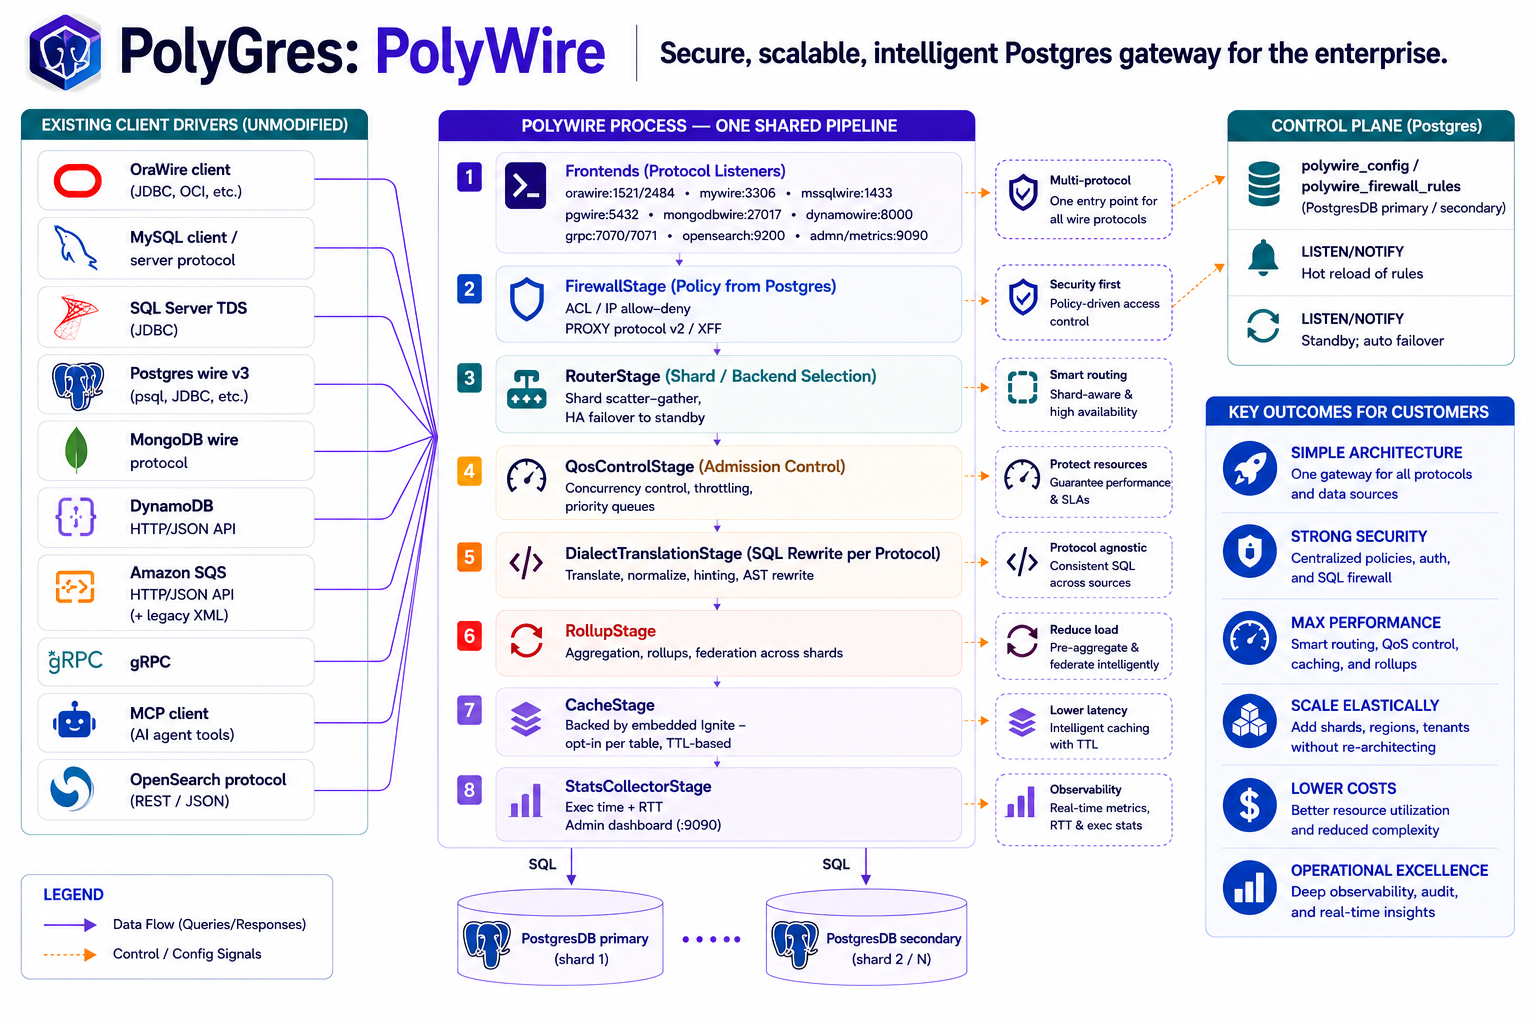
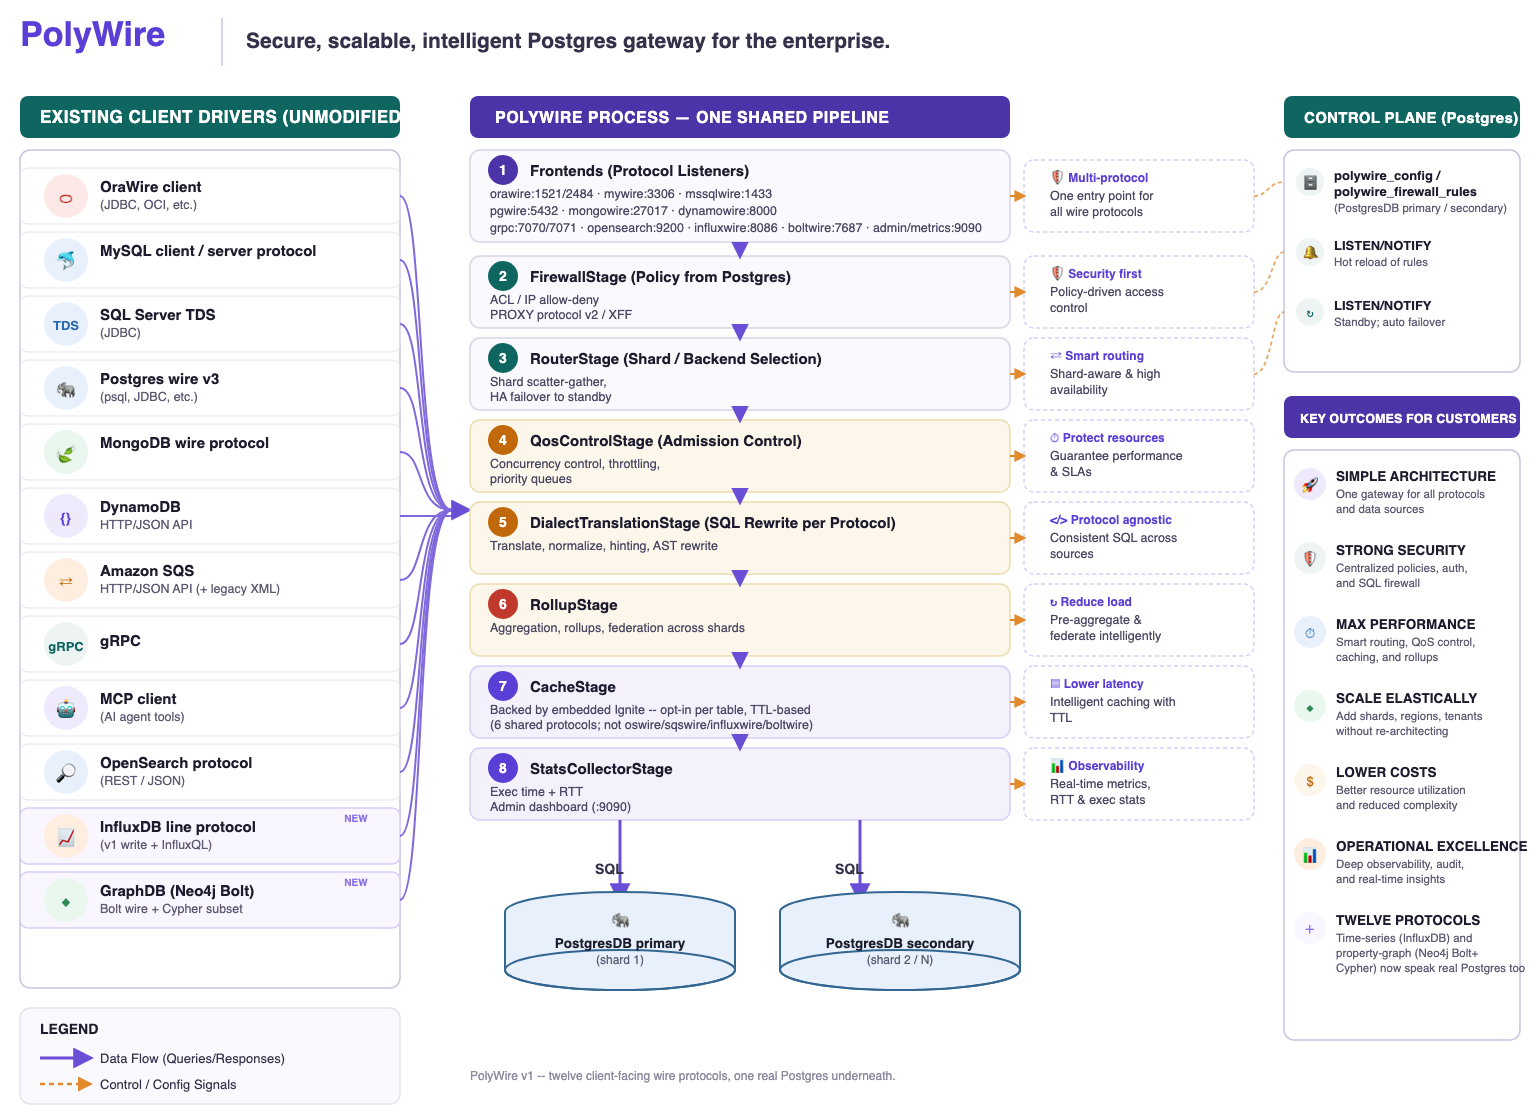
docker: regenerate the social-preview image, rename it to bust WhatsApp/OG caches
Synced from polygres26/Docker@c78f6a7.

Changed region(s): [[0.0, 0.0, 1.0, 0.9688], [0.0312, 0.8438, 0.2188, 1.0]]

diff --git a/index.html b/index.html
@@ -16,11 +16,11 @@
 <meta property="og:url" content="https://nexagres.com/">
 <meta property="og:title" content="PolyWire — The Intelligent Gateway for Postgres">
 <meta property="og:description" content="Connect, secure, control, and accelerate every application and AI agent accessing Postgres — regardless of the protocol they speak. One control point for every Postgres workload. Plus NexaGres DMS, a rules-based migration-difficulty assessor.">
-<meta property="og:image" content="https://nexagres.com/assets/architecture.png">
+<meta property="og:image" content="https://nexagres.com/assets/og-image.png">
 <meta name="twitter:card" content="summary_large_image">
 <meta name="twitter:title" content="PolyWire — The Intelligent Gateway for Postgres">
 <meta name="twitter:description" content="Connect, secure, control, and accelerate every application and AI agent accessing Postgres — regardless of the protocol they speak. One control point for every Postgres workload. Plus NexaGres DMS, a rules-based migration-difficulty assessor.">
-<meta name="twitter:image" content="https://nexagres.com/assets/architecture.png">
+<meta name="twitter:image" content="https://nexagres.com/assets/og-image.png">
 
 <!-- Structured data: helps search/AI systems parse what these tools are without re-deriving it
      from prose. Kept to claims already stated in the page body -- nothing here that isn't said,
@@ -36,7 +36,7 @@
       "operatingSystem": "Linux, macOS, Windows (Docker)",
       "description": "PolyWire is the intelligent gateway for Postgres -- one control point for every Postgres workload. Different protocols, same policies, same Postgres. It connects any client protocol -- Postgres, MySQL, Oracle, SQL Server, MongoDB, DynamoDB, Amazon SQS, OpenSearch, InfluxDB, GraphDB (Neo4j), gRPC, and MCP -- to a single real Postgres database, unmodified, with live semantic execution translation (protocol to SQL/API semantics to PostgreSQL execution), not just protocol framing. Organized around five capabilities: Connect (twelve client protocols, one backend), Protect (SQL firewall, connection ACL, authentication, row-level security), Control (QoS admission control, routing, sharding, planned/unplanned failover), Accelerate (PolyCache -- one distributed cache shared across PostgreSQL/MySQL/Oracle/SQL Server/gRPC/MCP -- and rollups), and Observe (native per-protocol error translation, Prometheus/OTEL export, audit log). Admin SSO (Okta/Entra ID) with read-vs-write roles is included.",
       "url": "https://nexagres.com/polywire/",
-      "image": "https://nexagres.com/assets/architecture.png",
+      "image": "https://nexagres.com/assets/og-image.png",
       "offers": [
         {
           "@type": "Offer",

diff --git a/polywire/index.html b/polywire/index.html
@@ -16,11 +16,11 @@
 <meta property="og:url" content="https://nexagres.com/polywire/">
 <meta property="og:title" content="PolyWire — Full Capabilities of the Intelligent Postgres Gateway">
 <meta property="og:description" content="Connect, Protect, Control, Accelerate, Observe: outcomes, use cases, PolyCache benchmarks, sharding, observability, security, and error translation — the full PolyWire technical detail.">
-<meta property="og:image" content="https://nexagres.com/assets/architecture.png">
+<meta property="og:image" content="https://nexagres.com/assets/og-image.png">
 <meta name="twitter:card" content="summary_large_image">
 <meta name="twitter:title" content="PolyWire — Full Capabilities of the Intelligent Postgres Gateway">
 <meta name="twitter:description" content="Connect, Protect, Control, Accelerate, Observe: outcomes, use cases, PolyCache benchmarks, sharding, observability, security, and error translation — the full PolyWire technical detail.">
-<meta name="twitter:image" content="https://nexagres.com/assets/architecture.png">
+<meta name="twitter:image" content="https://nexagres.com/assets/og-image.png">
 </head>
 <body>
   <a href="#main" class="skipLink">Skip to content</a>

diff --git a/db-compat/index.html b/db-compat/index.html
@@ -16,11 +16,11 @@
 <meta property="og:url" content="https://nexagres.com/db-compat/">
 <meta property="og:title" content="DB Compatibility Layer — Oracle, SQL Server, and MySQL Inside Postgres">
 <meta property="og:description" content="Postgres extensions that resolve real Oracle/SQL Server/MySQL catalog objects and built-in functions natively inside stock Postgres.">
-<meta property="og:image" content="https://nexagres.com/assets/architecture.png">
+<meta property="og:image" content="https://nexagres.com/assets/og-image.png">
 <meta name="twitter:card" content="summary_large_image">
 <meta name="twitter:title" content="DB Compatibility Layer — Oracle, SQL Server, and MySQL Inside Postgres">
 <meta name="twitter:description" content="Postgres extensions that resolve real Oracle/SQL Server/MySQL catalog objects and built-in functions natively inside stock Postgres.">
-<meta name="twitter:image" content="https://nexagres.com/assets/architecture.png">
+<meta name="twitter:image" content="https://nexagres.com/assets/og-image.png">
 </head>
 <body>
   <a href="#main" class="skipLink">Skip to content</a>

diff --git a/opensearch-to-postgres.html b/opensearch-to-postgres.html
@@ -16,11 +16,11 @@
 <meta property="og:url" content="https://nexagres.com/opensearch-to-postgres.html">
 <meta property="og:title" content="OpenSearch → PostgreSQL, No Client Change">
 <meta property="og:description" content="Your OpenSearch client thinks it's talking to OpenSearch. It's actually talking to Postgres. Real OpenSearch wire protocol, real PostgreSQL backend, no client change.">
-<meta property="og:image" content="https://nexagres.com/assets/architecture.png">
+<meta property="og:image" content="https://nexagres.com/assets/og-image.png">
 <meta name="twitter:card" content="summary_large_image">
 <meta name="twitter:title" content="OpenSearch → PostgreSQL, No Client Change">
 <meta name="twitter:description" content="Your OpenSearch client thinks it's talking to OpenSearch. It's actually talking to Postgres. Real OpenSearch wire protocol, real PostgreSQL backend, no client change.">
-<meta name="twitter:image" content="https://nexagres.com/assets/architecture.png">
+<meta name="twitter:image" content="https://nexagres.com/assets/og-image.png">
 
 <script type="application/ld+json">
 {

diff --git a/mcp-postgres/index.html b/mcp-postgres/index.html
@@ -16,11 +16,11 @@
 <meta property="og:url" content="https://nexagres.com/mcp-postgres/">
 <meta property="og:title" content="MCP for Postgres — Govern AI Agent Access">
 <meta property="og:description" content="AI agents get real Postgres access through the exact same SQL firewall, ACL, QoS, and audit path as every other client -- not a separate, unguarded route to your data.">
-<meta property="og:image" content="https://nexagres.com/assets/architecture.png">
+<meta property="og:image" content="https://nexagres.com/assets/og-image.png">
 <meta name="twitter:card" content="summary_large_image">
 <meta name="twitter:title" content="MCP for Postgres — Govern AI Agent Access">
 <meta name="twitter:description" content="AI agents get real Postgres access through the exact same SQL firewall, ACL, QoS, and audit path as every other client.">
-<meta name="twitter:image" content="https://nexagres.com/assets/architecture.png">
+<meta name="twitter:image" content="https://nexagres.com/assets/og-image.png">
 </head>
 <body>
   <a href="#main" class="skipLink">Skip to content</a>

diff --git a/mongodb-to-postgres.html b/mongodb-to-postgres.html
@@ -16,11 +16,11 @@
 <meta property="og:url" content="https://nexagres.com/mongodb-to-postgres.html">
 <meta property="og:title" content="MongoDB → PostgreSQL, No Driver Change">
 <meta property="og:description" content="Your MongoDB client thinks it's talking to MongoDB. It's actually talking to Postgres. Real MongoDB wire protocol, real PostgreSQL backend, no driver swap.">
-<meta property="og:image" content="https://nexagres.com/assets/architecture.png">
+<meta property="og:image" content="https://nexagres.com/assets/og-image.png">
 <meta name="twitter:card" content="summary_large_image">
 <meta name="twitter:title" content="MongoDB → PostgreSQL, No Driver Change">
 <meta name="twitter:description" content="Your MongoDB client thinks it's talking to MongoDB. It's actually talking to Postgres. Real MongoDB wire protocol, real PostgreSQL backend, no driver swap.">
-<meta name="twitter:image" content="https://nexagres.com/assets/architecture.png">
+<meta name="twitter:image" content="https://nexagres.com/assets/og-image.png">
 
 <script type="application/ld+json">
 {

diff --git a/oracle-to-postgres/index.html b/oracle-to-postgres/index.html
@@ -16,11 +16,11 @@
 <meta property="og:url" content="https://nexagres.com/oracle-to-postgres/">
 <meta property="og:title" content="Oracle → PostgreSQL, No Client Rewrite">
 <meta property="og:description" content="Your Oracle client thinks it's talking to Oracle. It's actually talking to Postgres. Real Oracle wire protocol, real PostgreSQL backend, no driver swap.">
-<meta property="og:image" content="https://nexagres.com/assets/architecture.png">
+<meta property="og:image" content="https://nexagres.com/assets/og-image.png">
 <meta name="twitter:card" content="summary_large_image">
 <meta name="twitter:title" content="Oracle → PostgreSQL, No Client Rewrite">
 <meta name="twitter:description" content="Your Oracle client thinks it's talking to Oracle. It's actually talking to Postgres. Real Oracle wire protocol, real PostgreSQL backend, no driver swap.">
-<meta name="twitter:image" content="https://nexagres.com/assets/architecture.png">
+<meta name="twitter:image" content="https://nexagres.com/assets/og-image.png">
 
 <script type="application/ld+json">
 {

diff --git a/mysql-to-postgres.html b/mysql-to-postgres.html
@@ -16,11 +16,11 @@
 <meta property="og:url" content="https://nexagres.com/mysql-to-postgres.html">
 <meta property="og:title" content="MySQL → PostgreSQL, No Driver Change">
 <meta property="og:description" content="Your MySQL client thinks it's talking to MySQL. It's actually talking to Postgres. Real MySQL wire protocol, real PostgreSQL backend, no driver swap.">
-<meta property="og:image" content="https://nexagres.com/assets/architecture.png">
+<meta property="og:image" content="https://nexagres.com/assets/og-image.png">
 <meta name="twitter:card" content="summary_large_image">
 <meta name="twitter:title" content="MySQL → PostgreSQL, No Driver Change">
 <meta name="twitter:description" content="Your MySQL client thinks it's talking to MySQL. It's actually talking to Postgres. Real MySQL wire protocol, real PostgreSQL backend, no driver swap.">
-<meta name="twitter:image" content="https://nexagres.com/assets/architecture.png">
+<meta name="twitter:image" content="https://nexagres.com/assets/og-image.png">
 
 <script type="application/ld+json">
 {

diff --git a/polycache.html b/polycache.html
@@ -16,11 +16,11 @@
 <meta property="og:url" content="https://nexagres.com/polycache.html">
 <meta property="og:title" content="PolyCache — Cross-Protocol Distributed Cache">
 <meta property="og:description" content="A result written through one wire protocol and read back through another comes back as a cache hit -- zero Postgres round trips.">
-<meta property="og:image" content="https://nexagres.com/assets/architecture.png">
+<meta property="og:image" content="https://nexagres.com/assets/og-image.png">
 <meta name="twitter:card" content="summary_large_image">
 <meta name="twitter:title" content="PolyCache — Cross-Protocol Distributed Cache">
 <meta name="twitter:description" content="A result written through one wire protocol and read back through another comes back as a cache hit -- zero Postgres round trips.">
-<meta name="twitter:image" content="https://nexagres.com/assets/architecture.png">
+<meta name="twitter:image" content="https://nexagres.com/assets/og-image.png">
 </head>
 <body>
   <a href="#main" class="skipLink">Skip to content</a>

diff --git a/postgres-gateway/index.html b/postgres-gateway/index.html
@@ -16,11 +16,11 @@
 <meta property="og:url" content="https://nexagres.com/postgres-gateway/">
 <meta property="og:title" content="Postgres Gateway — PolyWire vs. PgBouncer">
 <meta property="og:description" content="A connection pooler plus multi-protocol access, a SQL firewall, QoS, cross-protocol caching, and MCP for AI agents.">
-<meta property="og:image" content="https://nexagres.com/assets/architecture.png">
+<meta property="og:image" content="https://nexagres.com/assets/og-image.png">
 <meta name="twitter:card" content="summary_large_image">
 <meta name="twitter:title" content="Postgres Gateway — PolyWire vs. PgBouncer">
 <meta name="twitter:description" content="A connection pooler plus multi-protocol access, a SQL firewall, QoS, cross-protocol caching, and MCP for AI agents.">
-<meta name="twitter:image" content="https://nexagres.com/assets/architecture.png">
+<meta name="twitter:image" content="https://nexagres.com/assets/og-image.png">
 </head>
 <body>
   <a href="#main" class="skipLink">Skip to content</a>

diff --git a/docs/index.html b/docs/index.html
@@ -16,11 +16,11 @@
 <meta property="og:url" content="https://nexagres.com/docs/">
 <meta property="og:title" content="PolyWire &amp; NexaGres DMS Documentation">
 <meta property="og:description" content="Documentation index: full capabilities, connecting to your Postgres, error translation, and migration assessment detail.">
-<meta property="og:image" content="https://nexagres.com/assets/architecture.png">
+<meta property="og:image" content="https://nexagres.com/assets/og-image.png">
 <meta name="twitter:card" content="summary_large_image">
 <meta name="twitter:title" content="PolyWire &amp; NexaGres DMS Documentation">
 <meta name="twitter:description" content="Documentation index: full capabilities, connecting to your Postgres, error translation, and migration assessment detail.">
-<meta name="twitter:image" content="https://nexagres.com/assets/architecture.png">
+<meta name="twitter:image" content="https://nexagres.com/assets/og-image.png">
 </head>
 <body>
   <a href="#main" class="skipLink">Skip to content</a>

diff --git a/README.md b/README.md
@@ -42,11 +42,11 @@ needed, just open it in a browser.
 
 ## Architecture
 
-![PolyWire architecture: nine client protocols feed a shared eight-stage pipeline, each paired with the customer outcome it drives, backed by a Postgres control plane](docs/architecture.png)
+![PolyWire architecture: twelve client protocols feed a shared eight-stage pipeline, each paired with the customer outcome it drives, backed by a Postgres control plane](assets/architecture.png)
 
 ## Multi-AZ deployment
 
-![PolyWire multi-AZ cloud deployment: stateless instances per zone behind a network load balancer, primary/backup cache copies replicating across zones, a config-primary Postgres with standby failover](docs/deployment.png)
+![PolyWire multi-AZ cloud deployment: stateless instances per zone behind a network load balancer, primary/backup cache copies replicating across zones, a config-primary Postgres with standby failover](assets/deployment.png)
 
 Every piece of this diagram is real and tested today: the load balancer fan-out, per-zone
 instance scaling, config-primary failover, and the cross-zone cache backup replication — a cache
